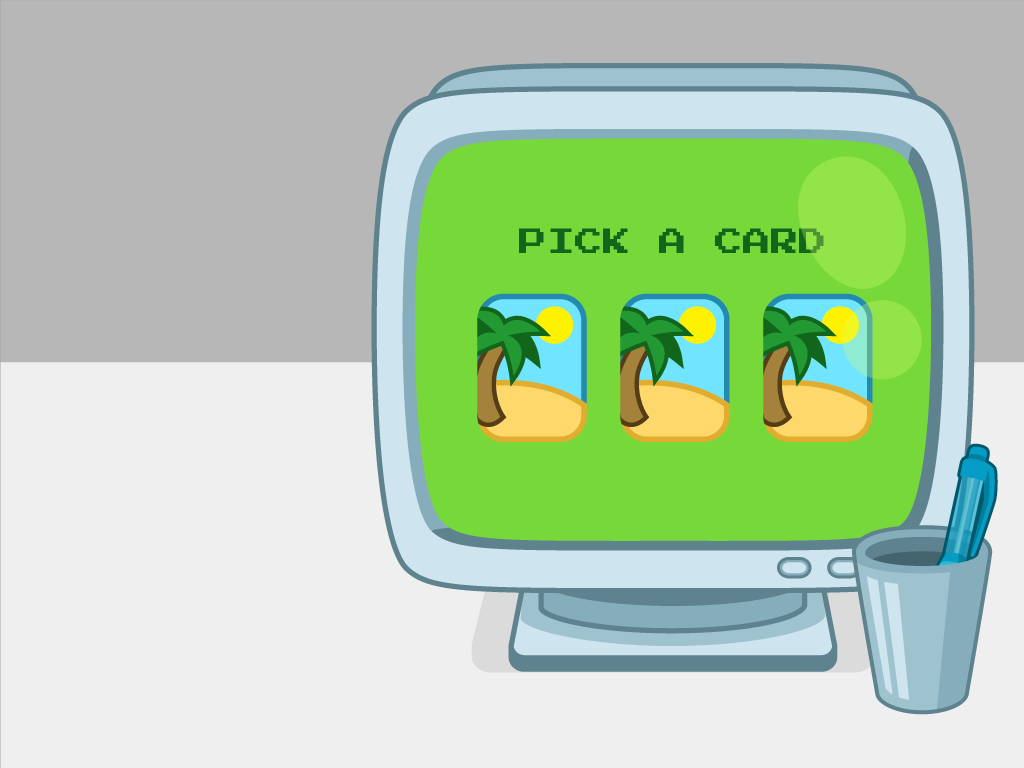
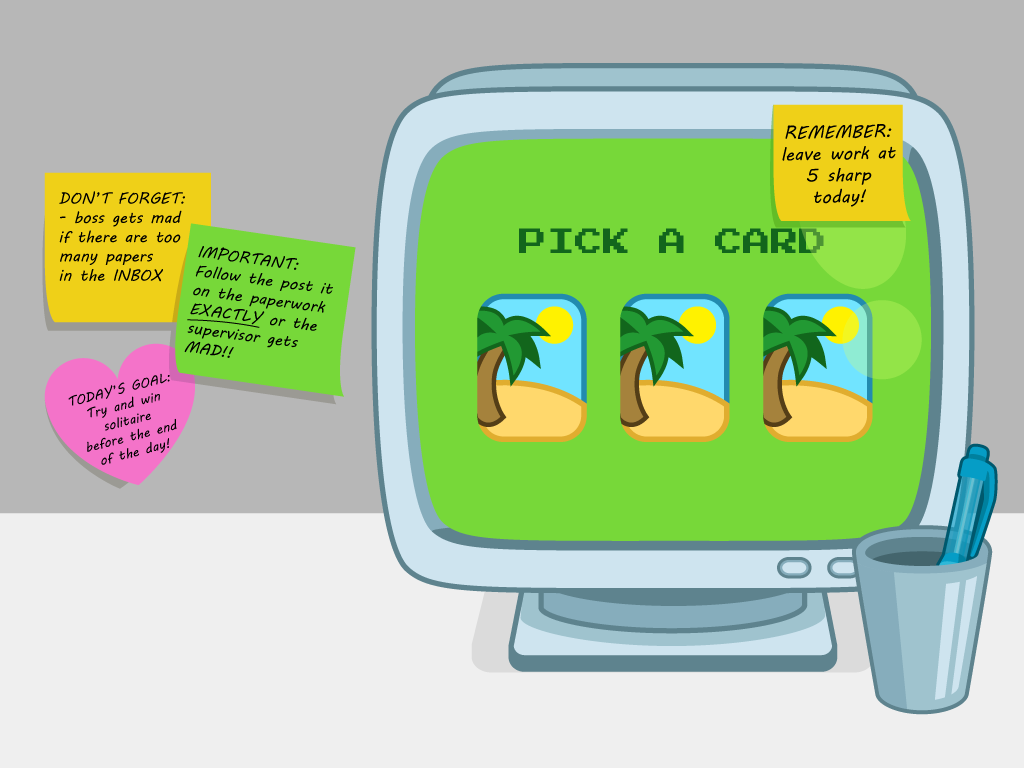
Start popups

diff --git a/src/scripts/entity/computer.ts b/src/scripts/entity/computer.ts
@@ -18,6 +18,7 @@ module Ala3.Entity {
         moves: number = 0;
         pointsLabel: Phaser.Text;
         points: number = 0;
+        popupShowing: boolean = false;
 
         constructor(game, x, y) {
             super(game, x, y, 'computer');
@@ -394,6 +395,17 @@ module Ala3.Entity {
         incrementPoints(big: boolean) {
             this.points += big ? 25 : 10;
             this.pointsLabel.text = 'Points: ' + this.points;
+        }
+
+        showPopup(message: string) {
+            let p = new Entity.Popup(this.game, message);
+            this.addChild(p);
+
+            p.events.onInputDown.add(function () {
+                p.destroy();
+                this.popupShowing = false;
+            }, this, null, p);
+            this.popupShowing = true;
         }
 
         private setCardPosInTableau(card: Card, stackIndex: number, lastCardIndex: number) {

diff --git a/src/scripts/state/game.ts b/src/scripts/state/game.ts
@@ -135,6 +135,10 @@ module Ala3.State {
             this.add.existing(paper);
 
             this.trayOuterInbox.bringToTop();
+
+            if (this.inboxItems.length === 5) {
+                this.computer.showPopup('You know you have some work piling up right?');
+            }
         }
 
         shouldAddWork() {
@@ -143,7 +147,7 @@ module Ala3.State {
             }
 
             if (this.inboxItems.length === Game.MAX_INBOX_ITEMS) {
-                //this.gameOver(Game.LOSE_CONDITION_WORK);
+                this.gameOver(Game.LOSE_CONDITION_WORK);
             }
 
             // queue another

diff --git a/src/scripts/entity/popup.ts b/src/scripts/entity/popup.ts
@@ -1,0 +1,22 @@
+module Ala3.Entity {
+    export class Popup extends Phaser.Sprite {
+        game: Game;
+
+        onClose: Phaser.Signal;
+
+        constructor(game, message: string) {
+            super(game, -110, -98, 'popup');
+
+            let text = new Phaser.Text(game, this.width / 2, this.height / 2, message, {
+                font: '16px Arial',
+                fill: '#000',
+                boundsAlignH: 'center',
+                boundsAlignV: 'middle'
+            });
+
+            this.addChild(text);
+
+            this.inputEnabled = true;
+        }
+    }
+}

diff --git a/src/scripts/state/preloader.ts b/src/scripts/state/preloader.ts
@@ -9,6 +9,7 @@ module Ala3.State {
             this.load.image('bg', 'assets/images/background.png');
 
             this.load.image('computer', 'assets/images/computer-screen.png');
+            this.load.image('popup', 'assets/images/pop-up.png');
             this.load.image('computer-shine', 'assets/images/computer-shine.png');
             this.load.image('card-back', 'assets/images/card-back-tropical.png');
             this.load.image('card-front', 'assets/images/card-front.png');

diff --git a/src/index.html b/src/index.html
@@ -30,6 +30,7 @@
 
 <script src="js/entity/preload-bar.js"></script>
 <script src="js/entity/computer.js"></script>
+<script src="js/entity/popup.js"></script>
 <script src="js/entity/card.js"></script>
 <script src="js/entity/tool.js"></script>
 <script src="js/entity/shredder.js"></script>
